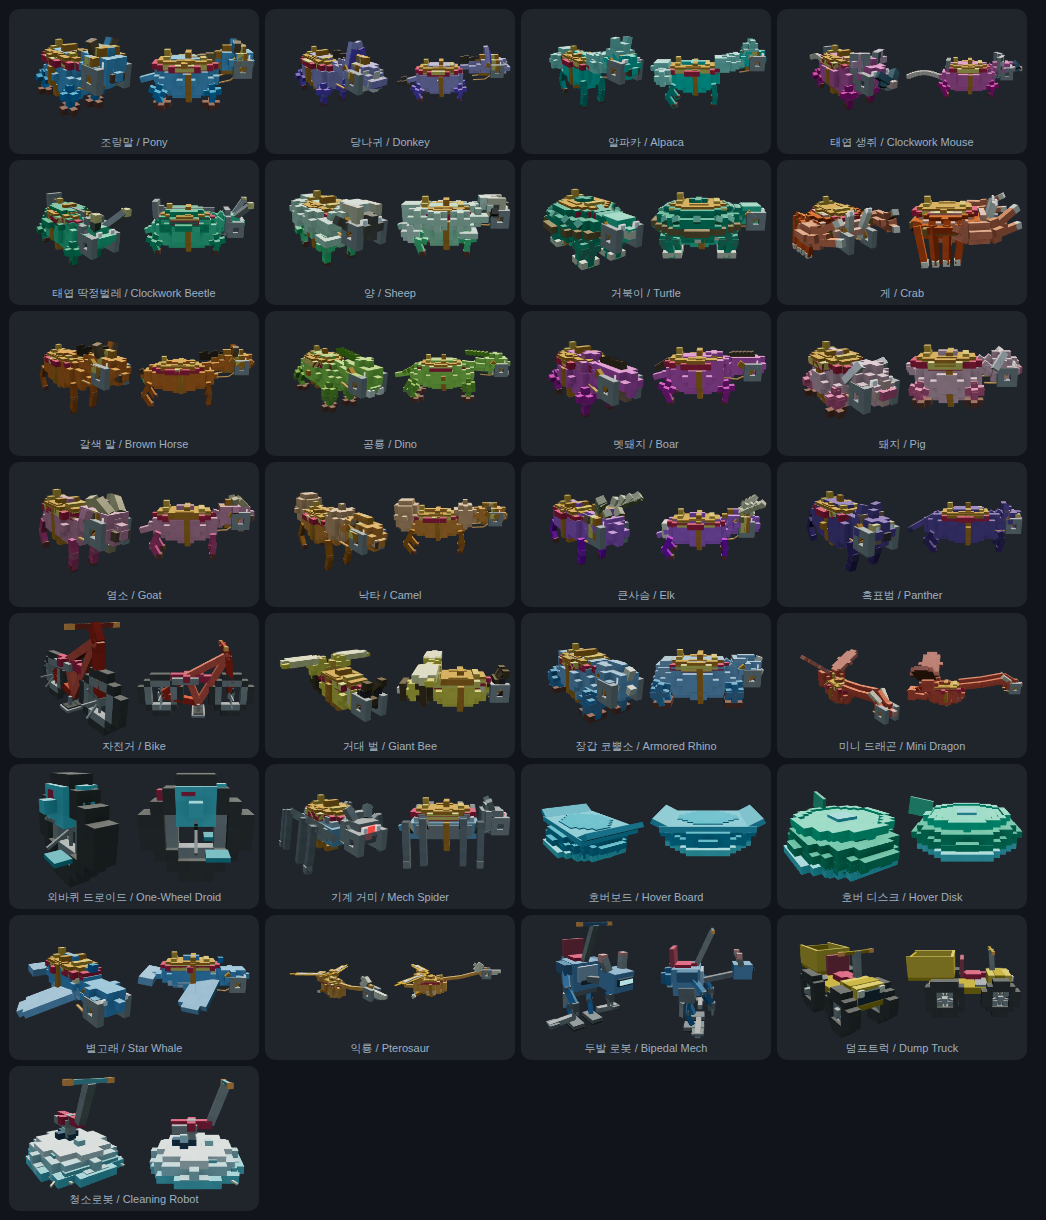
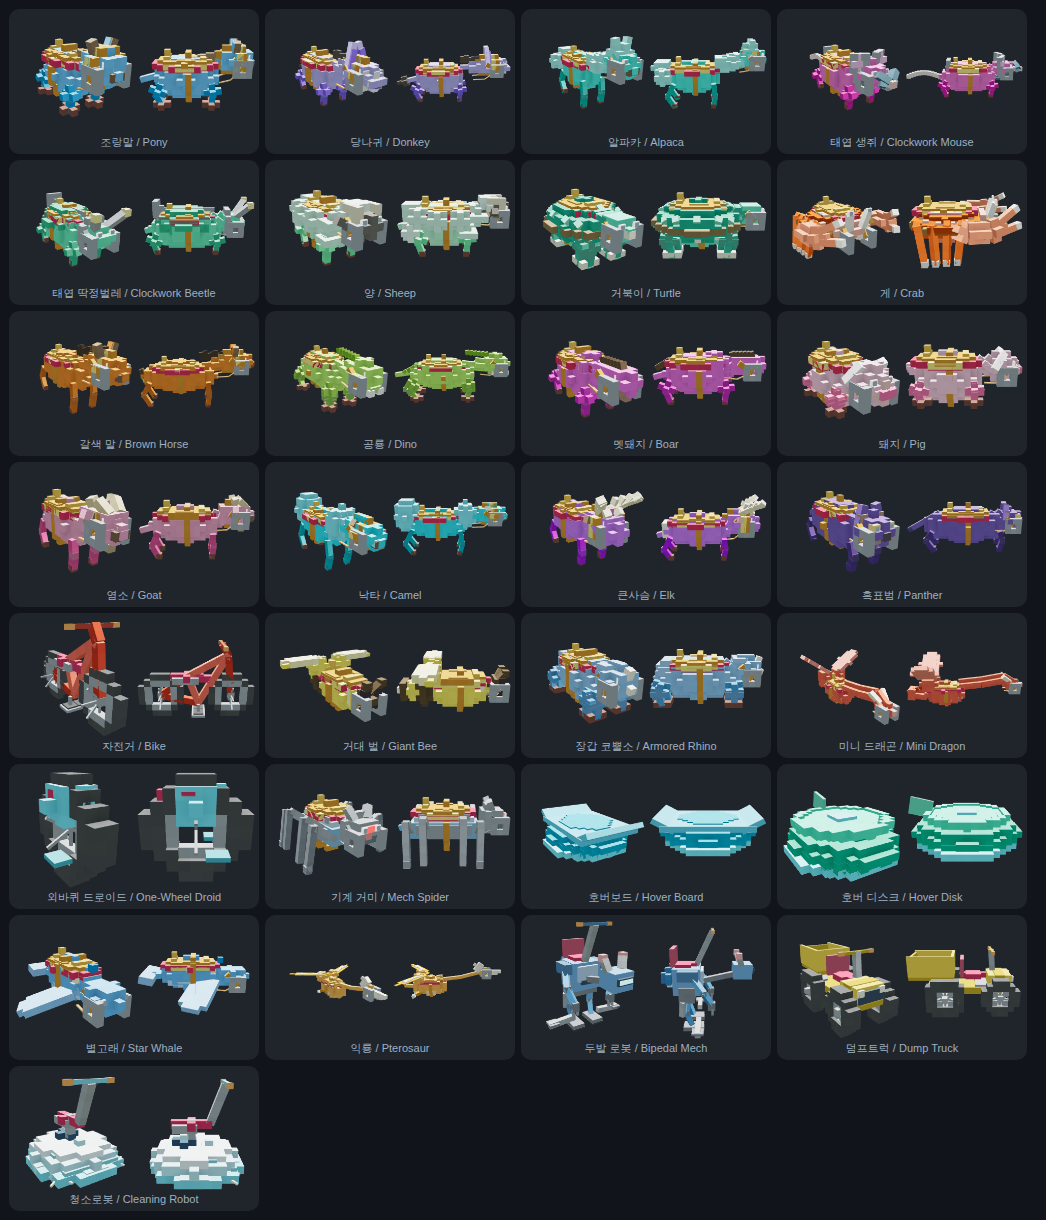
탈것 낙타 냉색 candy 재배정 — 오렌지→시안(웜-사 잔여 처치)
웜-사(死) 사족 3종(조랑말·멧돼지·큰사슴) 냉색화에 이어 남은 낙타(0xe86418
오렌지)를 처치. 오렌지가 ACES+복셀 암부에 흙올리브로 죽던 것을 alpaca 틸(0.47)·
pony 파랑(0.60) 사이의 쨍 시안 0x22b0c8 로 — 셋이 틸→시안→파랑 그라디언트로
갈려 herd 구별을 챙긴다. 혹 accent(SAND/SANDT)는 furTint(몸색 파생)라 시안으로
자동 정합(accent-bodytint 규약). 색만 변경(지오·vivid·AO·안장 불변).

이름색-잠금(갈색말)·정체성 노랑(벌·덤프)·비행 focus(익룡)는 제외 — 남은 웜종은
전부 그 세 사유 중 하나로 냉색화 부적합.

검증: node --check · probe-geo-ratchet 101 유지 · probe-creature-framing
지문 1083 일치·전 항목 PASS·콘솔 0 · mount-species.png 육안 낙타 흙올리브→쨍 시안.

Claude-Session: https://claude.ai/code/session_01MEmua64YBJezaMua2tTvdb

diff --git a/web/js/scene3d.js b/web/js/scene3d.js
@@ -12488,7 +12488,7 @@ const Scene3D = {
                 // ⚠ 혹을 `mat`(등급색)으로 두면 **몸통과 같은 색 덩어리**라 혹이 아니라 그냥 굴곡이다 —
                 //    이 항목의 축 ⑵(표식은 등급색을 벗긴 고정 자연색) 를 혹에도 적용한다. 낙타의
                 //    모래색은 종 정보 그 자체이기도 하다.
-                const SAND = furTint(0.12), SANDT = furTint(0.20);   // 몸 candy(오렌지)에서 파생한 혹 — 종전 고정 탄 0xc9a870/0xdcc79a
+                const SAND = furTint(0.12), SANDT = furTint(0.20);   // 몸 candy(시안)에서 파생한 혹 — 종전 고정 탄 0xc9a870/0xdcc79a
                 sp(0.165, 0, 0.385, -0.36, SAND, 1.0, 1.16, 0.95);   // 뒤 혹
                 sp(0.155, 0, 0.385, 0.355, SAND, 0.98, 1.10, 0.92);  // 앞 혹
                 sp(0.150, 0, 0.410, -0.36, SANDT, 0.72, 0.72, 0.68); // 혹 꼭대기 털뭉치(윤곽 강조)
@@ -13918,7 +13918,11 @@ const Scene3D = {
         //    갈색말(하드코드)·벌/덤프(정체성 노랑)는 제외 · 색만 변경(지오·vivid·AO·안장 불변).
         'Pony': 0x3f8fe0, 'Donkey': 0x8b7fcc, 'Alpaca': 0x2fb8a0, 'Sheep': 0x84cf9a,
         'Turtle': 0x3fb082, 'Crab': 0xf05230, 'Dino': 0x7cc23a, 'Boar': 0xd046b0,
-        'Pig': 0xf593ac, 'Goat': 0xcf6f8c, 'Camel': 0xe86418, 'Elk': 0xa64de0,
+        // 낙타(0xe86418 오렌지→시안)도 위 웜-사 3종과 같은 사유로 냉색 candy 재배정
+        //    (mount-camel-cool). 오렌지가 흙올리브로 죽던 것을 alpaca 틸(0.47)·pony 파랑(0.60)
+        //    사이의 쨍 시안으로 — 셋이 틸→시안→파랑 그라디언트로 갈려 herd 구별. 혹 accent 는
+        //    furTint(몸색 파생)라 자동 정합 · 이름색-잠금(갈색말)·정체성 노랑(벌·덤프)은 제외.
+        'Pig': 0xf593ac, 'Goat': 0xcf6f8c, 'Camel': 0x22b0c8, 'Elk': 0xa64de0,
         // 🚨 비행 3종 채도·명도 상향 (mount-riverbond-remake, 비평가 4인 공통 'washed-out/muddy,
         //    vivid 목표 미달' — 지상동물은 이미 통과, 비행종만 칙칙했다). 벌은 노랑을 쨍하게 올려야
         //    어두운 배마디(BEE_D)가 '줄무늬'로 대비되고(비평가 'no bee striping'), 드래곤은 진홍으로,
